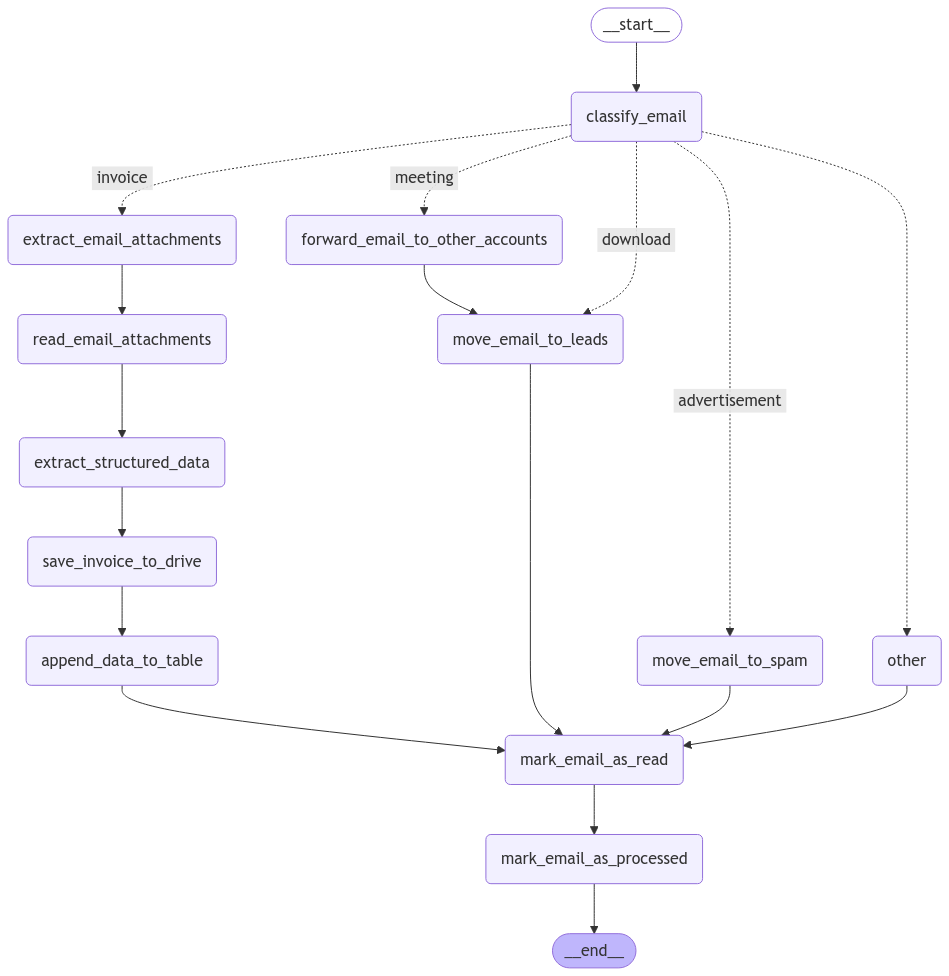
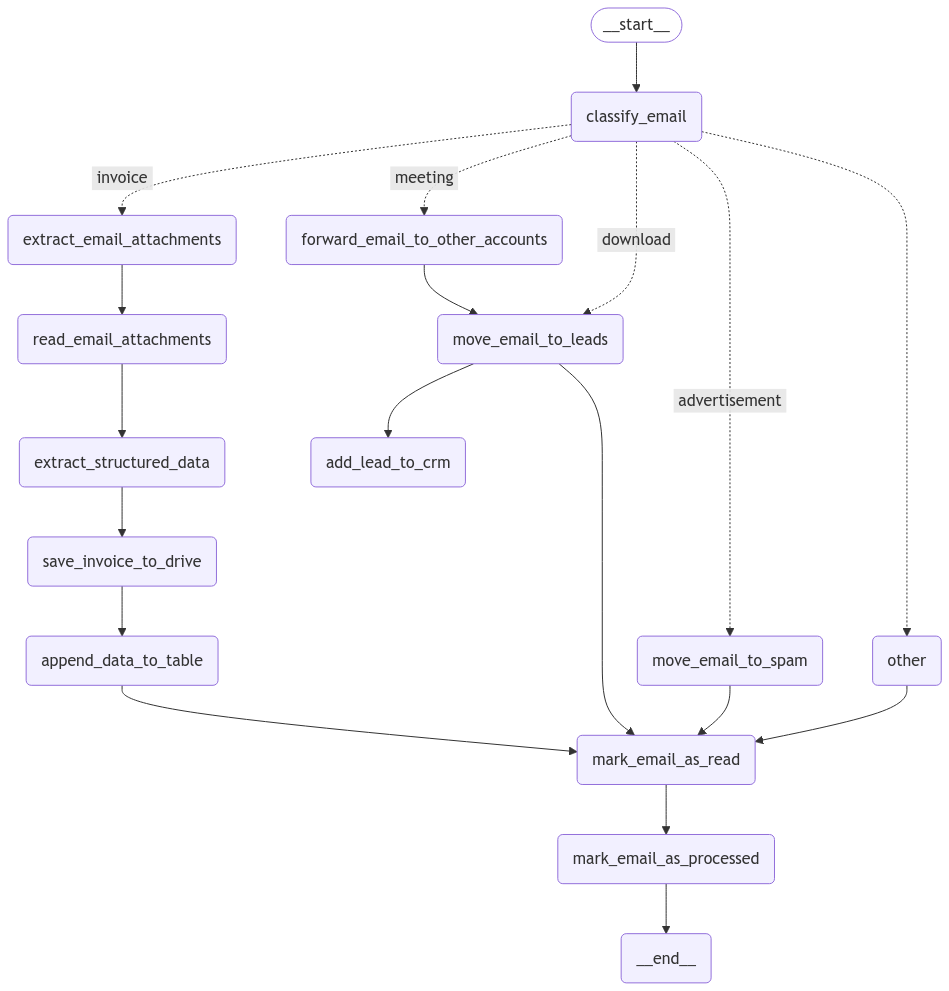
added notion connection

diff --git a/api/notion_api.py b/api/notion_api.py
@@ -1,0 +1,64 @@
+import os
+import requests
+
+
+def get_leads():
+    notion_api_secret = os.environ["NOTION_API_SECRET"]
+    notion_crm_db_id = os.environ["NOTION_CRM_DB_ID"]
+
+    url = f"https://api.notion.com/v1/databases/{notion_crm_db_id}/query"
+    headers = {
+        "Authorization": f"Bearer {notion_api_secret}",
+        "Content-Type": "application/json",
+        "Notion-Version": "2022-06-28",
+    }
+
+    response = requests.post(url, headers=headers)
+    return response.json()
+
+
+def add_lead_to_crm(name, company, email_category, email_subject):
+    notion_api_secret = os.environ["NOTION_API_SECRET"]
+    notion_crm_db_id = os.environ["NOTION_CRM_DB_ID"]
+
+    url = "https://api.notion.com/v1/pages"
+    headers = {
+        "Authorization": f"Bearer {notion_api_secret}",
+        "Content-Type": "application/json",
+        "Notion-Version": "2022-06-28",
+    }
+    data = {
+        "parent": {"database_id": notion_crm_db_id},
+        "icon": {"emoji": "🤖"},
+        "properties": {
+            "Name": {"title": [{"text": {"content": name}}]},
+            "Company": {"rich_text": [{"text": {"content": company}}]},
+            "Status": {"status": {"name": "Lead"}},
+        },
+        "children": [
+            {
+                "object": "block",
+                "type": "heading_2",
+                "heading_2": {
+                    "rich_text": [{"type": "text", "text": {"content": name}}]
+                },
+            },
+            {
+                "object": "block",
+                "type": "paragraph",
+                "paragraph": {
+                    "rich_text": [
+                        {
+                            "type": "text",
+                            "text": {
+                                "content": f"Kontakt automatisch aufgenommen durch Personal-Email-Assistant. E-Mail Kategorie ist '{email_category}', Betreff ist '{email_subject}'",
+                            },
+                        }
+                    ]
+                },
+            },
+        ],
+    }
+
+    response = requests.post(url, headers=headers, json=data)
+    return response.json()

diff --git a/langgraph_graph/setup_langgraph_graph.py b/langgraph_graph/setup_langgraph_graph.py
@@ -1,4 +1,5 @@
 from langgraph.graph import START, END, StateGraph
+from nodes.add_lead_to_crm import add_lead_to_crm
 from models.state import State
 from nodes.forward_email_to_other_accounts import forward_email_to_other_accounts
 from nodes.mark_email_as_processed import mark_email_as_processed
@@ -50,6 +51,7 @@ def build_graph() -> StateGraph:
     )
     router_builder.add_node("other", other)
     router_builder.add_node("mark_email_as_processed", mark_email_as_processed)
+    router_builder.add_node("add_lead_to_crm", add_lead_to_crm)
 
     # Add edges to connect nodes
     router_builder.add_edge(START, "classify_email")
@@ -75,6 +77,7 @@ def build_graph() -> StateGraph:
     router_builder.add_edge("other", "mark_email_as_read")
 
     router_builder.add_edge("forward_email_to_other_accounts", "move_email_to_leads")
+    router_builder.add_edge("move_email_to_leads", "add_lead_to_crm")
     router_builder.add_edge("move_email_to_leads", "mark_email_as_read")
 
     router_builder.add_edge("mark_email_as_read", "mark_email_as_processed")

diff --git a/nodes/add_lead_to_crm.py b/nodes/add_lead_to_crm.py
@@ -1,0 +1,22 @@
+import json
+from api import notion_api
+from api.openai_api import OpenAIClient
+from models.state import State
+import logging
+
+
+def add_lead_to_crm(state: State) -> dict:
+
+    email_subject = state["email"]["subject"]
+    email_category = state["category"]
+
+    try:
+        name = email_subject.split("Neues Ereignis: ")[1].split(" -")[0]
+    except IndexError:
+        logging.error("Failed to extract email event from subject")
+        name = "Unknown Name"
+
+    company = "Unknown Company"
+    notion_api.add_lead_to_crm(name, company, email_category, email_subject)
+
+    return state
